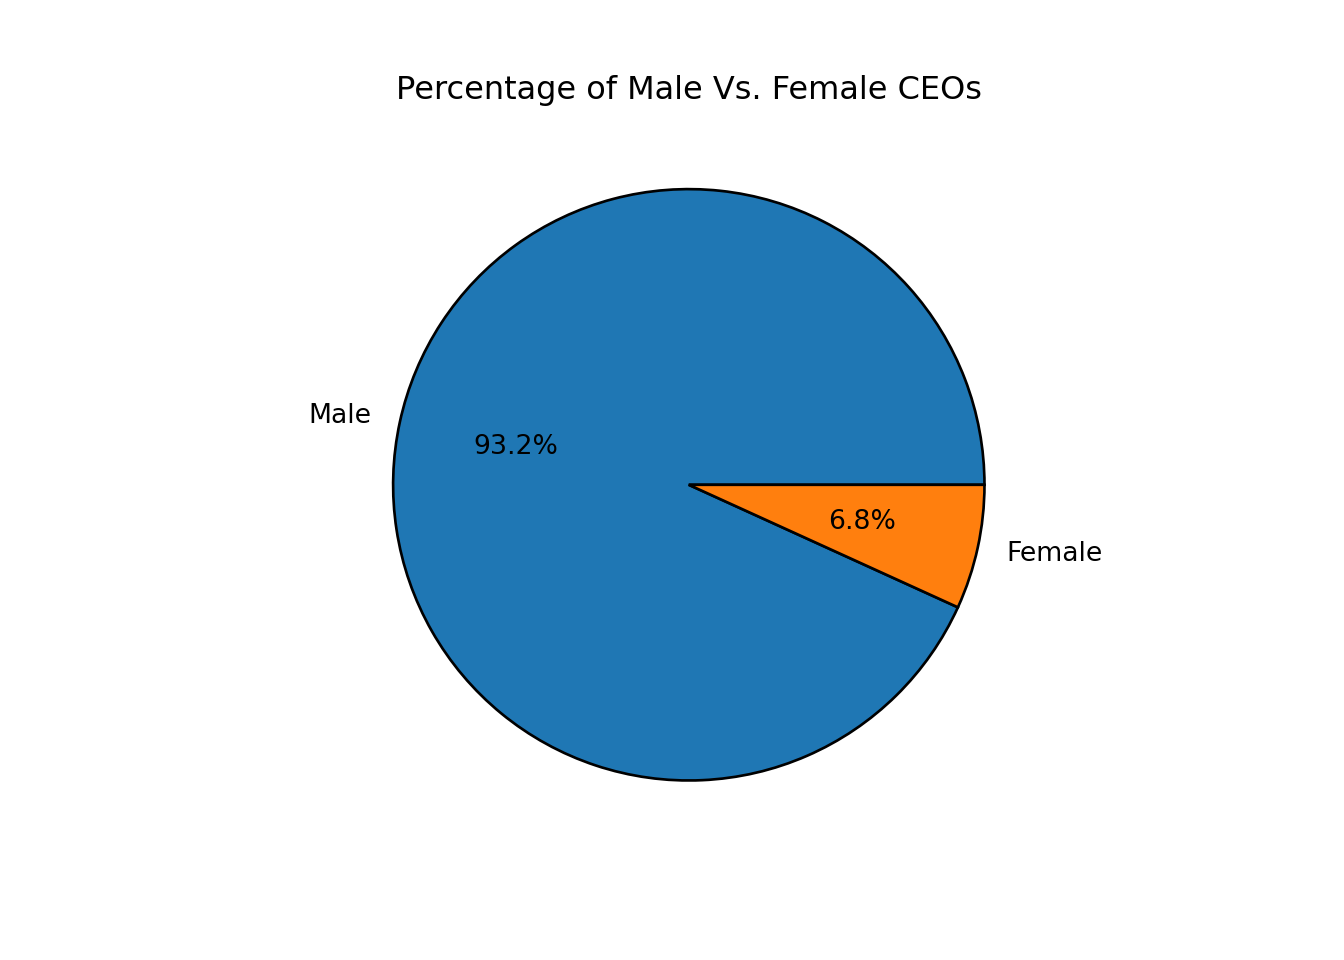
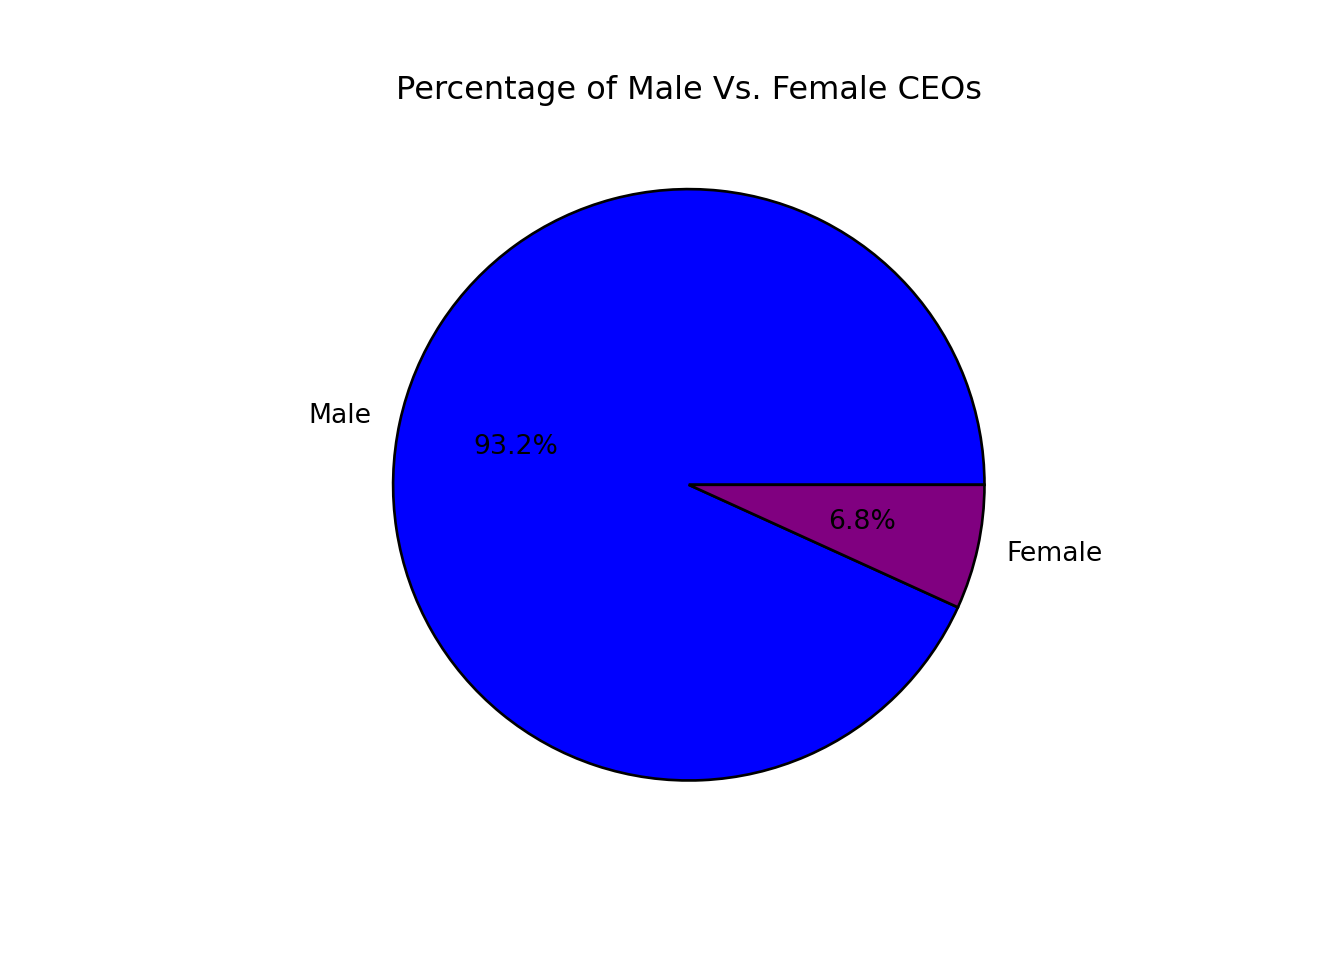
updates to public file

Changed region(s): [[0.2812, 0.1875, 0.75, 0.8125]]

diff --git a/content/posts/2022-09-01-exploratory-data-analysis-of-fortune-1000-companies/index.html b/content/posts/2022-09-01-exploratory-data-analysis-of-fortune-1000-companies/index.html
@@ -25,7 +25,7 @@ projects: []
 <h1>Introduction to Exploring Fortune 1000 Companies Data using Python</h1>
 <p>As a data analyst, one of the most important skills you need to have is the ability to work with data to gain insights and answer questions. Recently, my girlfriend started working for a Fortune 1000 company, which sparked my curiosity about the makeup of these companies. In particular, I was interested in the percentage of women who are CEOs, which states have the most Fortune 1000 companies, and the top profitable companies. To answer these questions, I searched for a suitable dataset on Google and found one on <a href="https://www.kaggle.com/datasets/winston56/fortune-500-data-2021" target="_blank">Kaggle</a> that had exactly what I was looking for. The dataset contained data for the year 2021, and was scraped from the <a href="https://fortune.com/" target="_blank">fortune website</a> by the dataset <a href="https://www.kaggle.com/code/winston56/fortune-500-data-collection/notebook" target="_blank">author</a>.</p>
 <p>Before diving into the analysis, let’s discuss the meaning of exploratory data analysis (EDA). EDA is a valuable process used by data scientists and analysts to investigate and analyze datasets. It helps to identify the main characteristics of the data through various visualization techniques.</p>
-<p>To begin the analysis, I used Python, along with the <code>Pandas</code>, <code>Seaborn</code>, <code>Squarify``, and</code>Matplotlib<code>libraries. Pandas was used to read in the dataset, Seaborn was used for data visualization,</code>Squarify<code>was used to create a treemap, and</code>Matplotlib``` was used for additional data visualization.</p>
+<p>To begin the analysis, I used Python, along with the <code>Pandas</code>, <code>Seaborn</code>, <code>Squarify</code>, and <code>Matplotlib</code> libraries. Pandas was used to read in the dataset, Seaborn was used for data visualization, <code>Squarify</code> was used to create a treemap, and <code>Matplotlib</code> was used for additional data visualization.</p>
 <p>Here’s the Python code used to import the necessary libraries:</p>
 <div id="import-libraries-used-for-analysis" class="section level4">
 <h4>Import libraries used for analysis</h4>
@@ -75,30 +75,17 @@ df.dtypes # see structure of data</code></pre>
 ## 
 ## [10 rows x 18 columns]</code></pre>
 <p>Next, I wanted to find out the percentage of women who are CEOs. To do this, I used the <code>value_counts()</code> method in Pandas to count the number of female and male CEOs, and then created a pie chart using Matplotlib to visualize the results:</p>
-<pre class="python"><code># Find out percent of woman CEOs
-wf= df[&#39;ceo_woman&#39;].value_counts(normalize=True).to_frame()
-# Make pie chart of woman vs. men ceos
-labels = &quot;Male&quot;,&quot;Female&quot;
-colors = [&quot;blue&quot;, &quot;purple&quot;]
-plt.title(&quot;Percentage of Male Vs. Female CEOs&quot;)
-plt.pie(wf[&quot;ceo_woman&quot;],labels = labels, autopct = &#39;%.1f%%&#39;,
-        wedgeprops = {&quot;edgecolor&quot; : &quot;black&quot;,
-                      &#39;linewidth&#39;: 1,
-                      &#39;antialiased&#39;: True})
-                      </code></pre>
-<pre><code>## ([&lt;matplotlib.patches.Wedge object at 0x7fccdad60e20&gt;, &lt;matplotlib.patches.Wedge object at 0x7fccdad77460&gt;], [Text(-1.074994922300288, 0.23320788371879284, &#39;Male&#39;), Text(1.074994911383038, -0.23320793404293647, &#39;Female&#39;)], [Text(-0.5863608667092479, 0.12720430021025061, &#39;93.2%&#39;), Text(0.5863608607543842, -0.1272043276597835, &#39;6.8%&#39;)])</code></pre>
-<pre class="python"><code>plt.show()
-                      </code></pre>
+<pre><code>## ([&lt;matplotlib.patches.Wedge object at 0x7ff183548eb0&gt;, &lt;matplotlib.patches.Wedge object at 0x7ff1835604f0&gt;], [Text(-1.074994922300288, 0.23320788371879284, &#39;Male&#39;), Text(1.074994911383038, -0.23320793404293647, &#39;Female&#39;)], [Text(-0.5863608667092479, 0.12720430021025061, &#39;93.2%&#39;), Text(0.5863608607543842, -0.1272043276597835, &#39;6.8%&#39;)])</code></pre>
 <p><img src="{{< blogdown/postref >}}index_files/figure-html/unnamed-chunk-3-1.png" width="672" />
 From the pie chart, it’s clear that only 6.8% of Fortune 1000 companies are led by female CEOs.</p>
 <p>Next, I wanted to see which states have the most Fortune 1000 companies. I used the <code>value_counts()</code> method in Pandas to count the number of companies in each state, and then created a treemap using Squarify to visualize the results:</p>
 <pre><code>## (0.0, 100.0, 0.0, 100.0)</code></pre>
 <p><img src="{{< blogdown/postref >}}index_files/figure-html/unnamed-chunk-4-3.png" width="672" />
-This code uses pandas and squarify libraries to create a treemap that shows the top 20 states with the most Fortune 1000 companies.</p>
-<p>First, the code creates a DataFrame ‘state_count’ using the value_counts() method to count the number of times each state appears in the ‘state’ column of the original DataFrame ‘df’. The resulting DataFrame is then sorted in descending order using nlargest() function to get the top 20 states with the most companies.</p>
+This code uses <code>pandas</code> and <code>squarify</code> libraries to create a treemap that shows the top 20 states with the most Fortune 1000 companies.</p>
+<p>First, the code creates a DataFrame ‘state_count’ using the <code>value_counts()</code> method to count the number of times each state appears in the ‘state’ column of the original DataFrame ‘df’. The resulting DataFrame is then sorted in descending order using nlargest() function to get the top 20 states with the most companies.</p>
 <p>The sizes and labels for the treemap are then created. The sizes variable is a list of the ‘counts’ column of the ‘state_count’ DataFrame, while the labels variable is a list comprehension that creates a string for each state and its count in the format ‘state’.</p>
-<p>Finally, the squarify library is used to create the treemap. The sizes and labels variables are passed to the squarify.plot() method, along with a color map and an alpha value to adjust the opacity of the squares. The plt.axis() method is used to turn off the x and y axis labels and the title of the plot is set using plt.title(). The resulting treemap shows the states with the most Fortune 1000 companies in a visually appealing way.</p>
-<p>To wrap up, let’s take a look at how we can compare profit and revenue in a bar plot. We can use this visual tool to gain insights into the performance of the top five Fortune 1000 companies. To achieve this, we melted the data to create a tidy format, then used Seaborn to create a clean and informative bar plot. Additionally, we created a table to show the percentage change in revenue to profit for each company.</p>
+<p>Finally, the squarify library is used to create the treemap. The sizes and labels variables are passed to the <code>squarify.plot()</code> method, along with a color map and an alpha value to adjust the opacity of the squares. The <code>plt.axis()</code> method is used to turn off the x and y axis labels and the title of the plot is set using <code>plt.title()</code>. The resulting treemap shows the states with the most Fortune 1000 companies in a visually appealing way.</p>
+<p>To wrap up, let’s take a look at how we can compare profit and revenue in a bar plot. We can use this visual tool to gain insights into the performance of the top five Fortune 1000 companies. To achieve this, we melted the data to create a tidy format, then used <code>Seaborn</code> to create a clean and informative bar plot. Additionally, we created a table to show the percentage change in revenue to profit for each company.</p>
 <pre class="python"><code># Profit vs. revenue in bar plot
 rev_prof = df.nlargest(5,&#39;revenue&#39;)
 rev_prof = pd.melt(rev_prof,id_vars = [&#39;company&#39;],value_vars = [&#39;revenue&#39;,&#39;profit&#39;])
